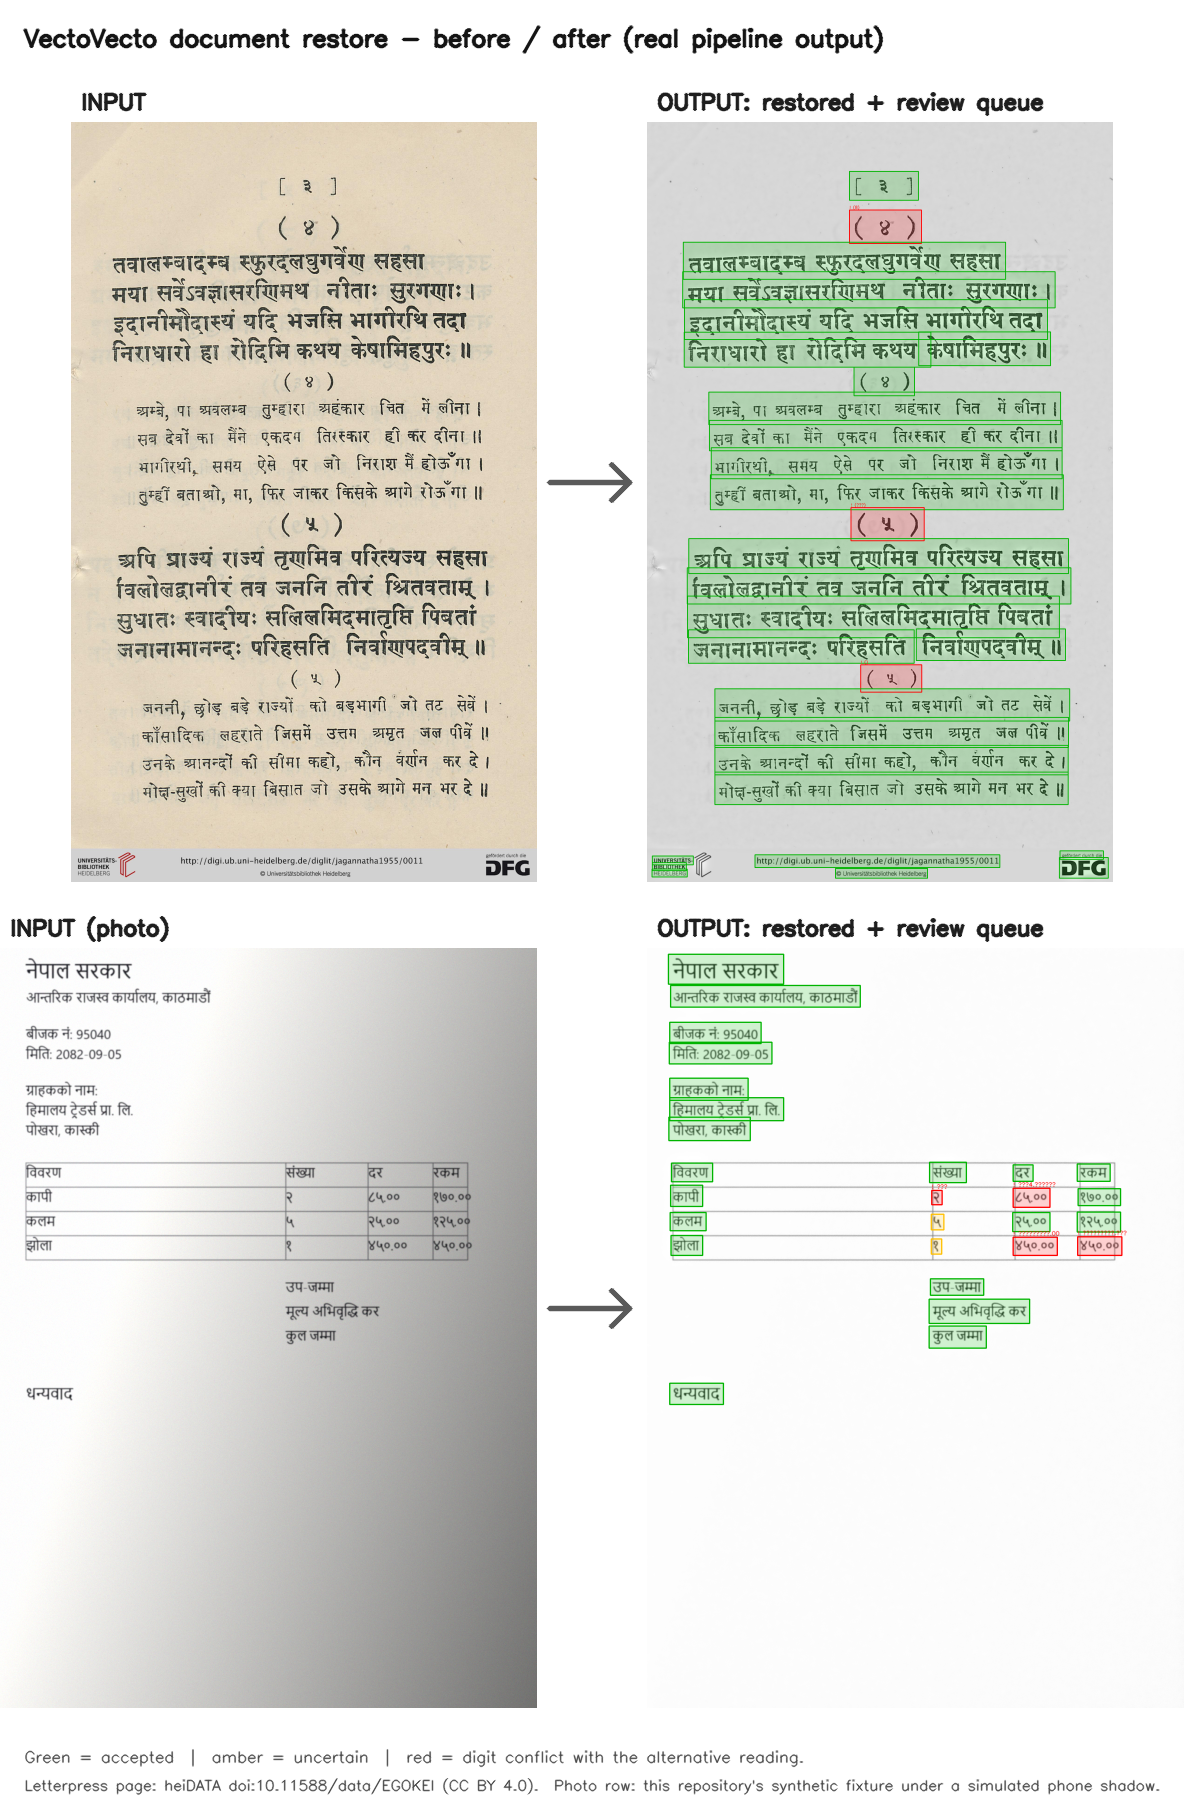
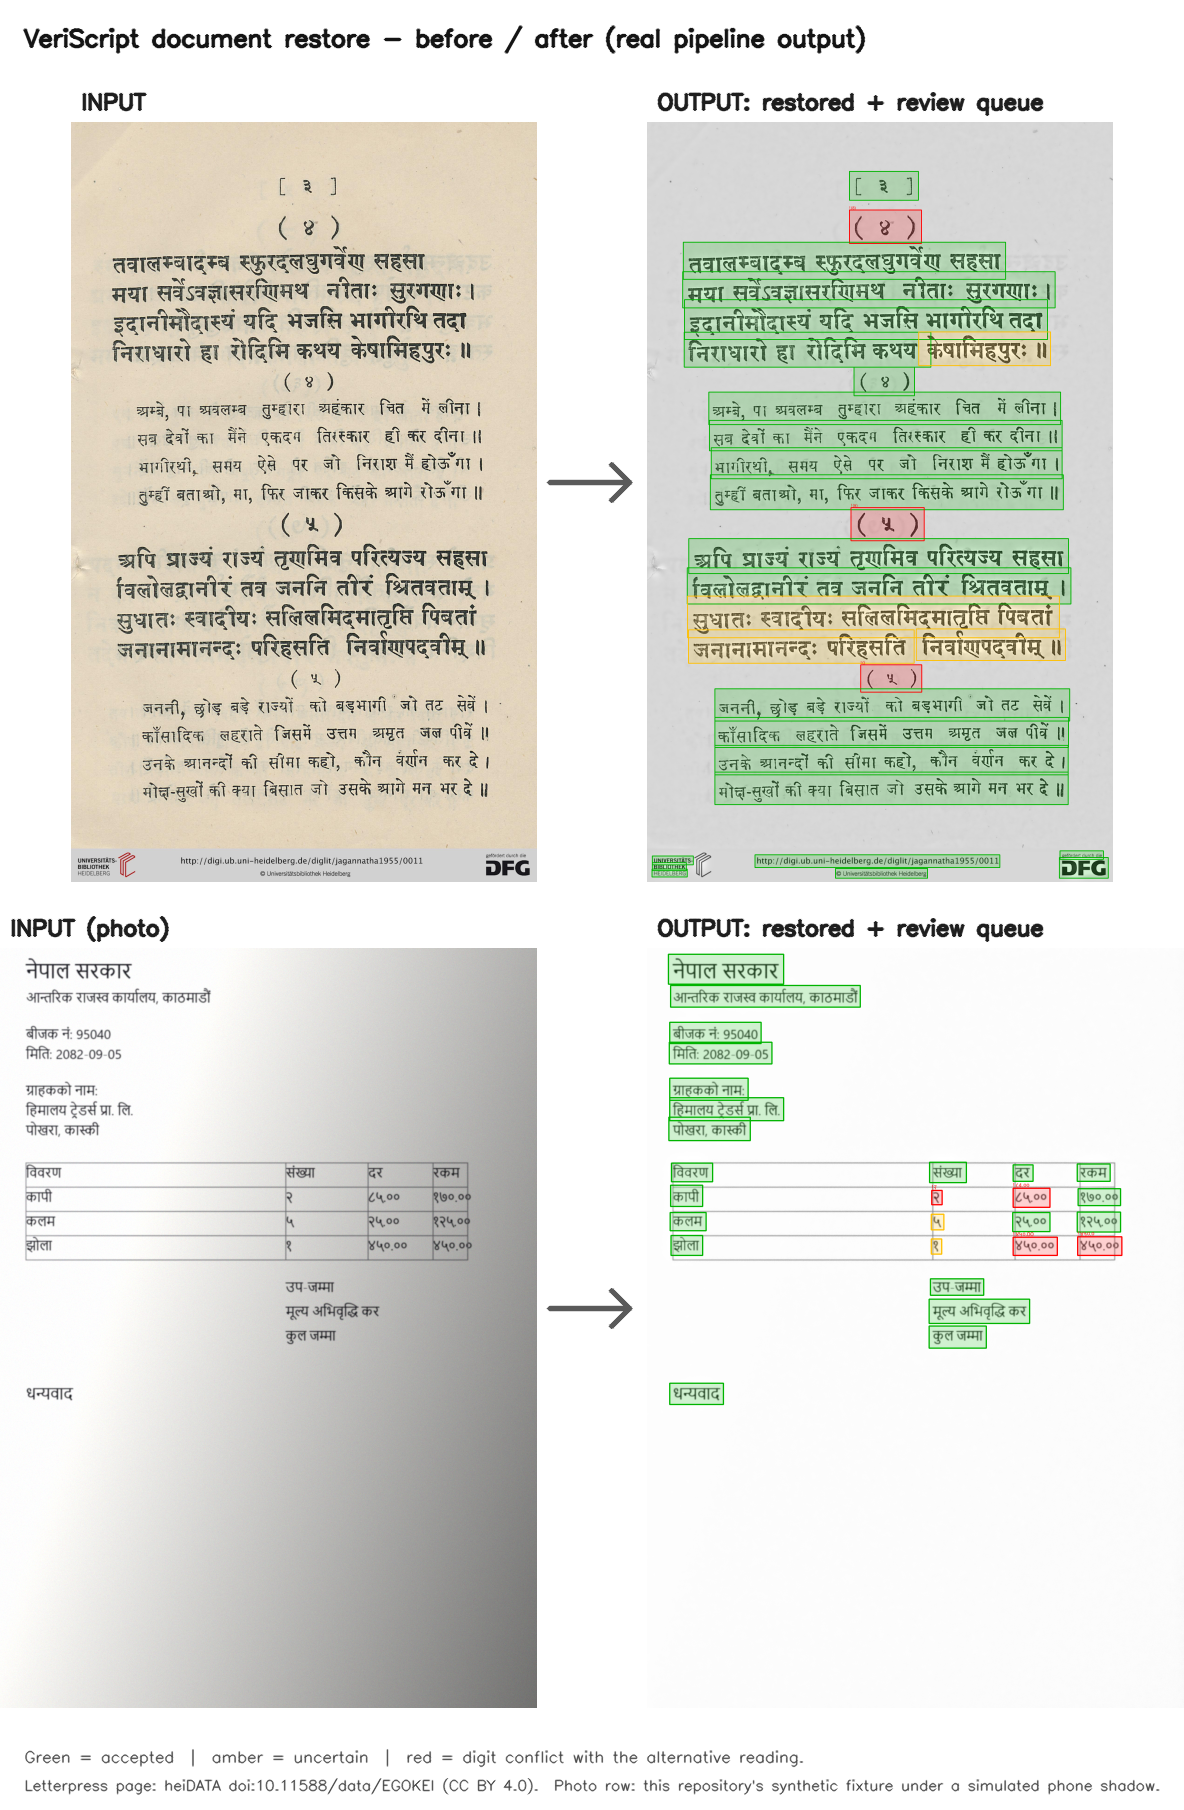
brand: VeriScript - rename from VectoVecto (brand surfaces + legacy env aliases)
- branding.py: VERISCRIPT_* env vars with VECTOVECTO_* fallback (logging, lexicon, deva checkpoint, web config)
- README/docs/studio UI/package metadata/Docker/CI/packaging spec renamed; demo before/after image regenerated with the new name
- kept for compatibility: vectovecto.* logger, vvweb package, Kaggle dataset slugs, legacy vectovecto console script
- docs/PLAN.md Appendix AD records the naming decision and namespace checks; 338 tests pass

Changed region(s): [[0.0312, 0.0, 0.75, 0.0309], [0.5625, 0.3094, 0.9062, 0.3713], [0.75, 0.1856, 0.9062, 0.2166]]

diff --git a/webapp/frontend/src/routes/Landing.tsx b/webapp/frontend/src/routes/Landing.tsx
@@ -108,7 +108,7 @@ export function Landing() {
             <span class="eyebrow">Offline document restoration — Devanagari first</span>
             <h1 class="display hero__title">It will not invent the numbers on your bill.</h1>
             <p class="lede">
-              VectoVecto restores photos and scans into cleaned pages and searchable PDFs — and
+              VeriScript restores photos and scans into cleaned pages and searchable PDFs — and
               puts every uncertain digit in a measured review queue instead of guessing.
             </p>
             <a class="textlink" href="#examples">
@@ -298,7 +298,7 @@ export function Landing() {
             <h2 class="h2">This page is a demo. The product runs on your machine.</h2>
             <p class="lede">
               The studio processes your page on this server and deletes it after the retention
-              window. The real guarantee — and the reason VectoVecto exists — is that the pipeline
+              window. The real guarantee — and the reason VeriScript exists — is that the pipeline
               runs offline: no cloud calls, no telemetry, no account. Install it and it stays yours.
             </p>
           </div>

diff --git a/webapp/frontend/src/components/Footer.tsx b/webapp/frontend/src/components/Footer.tsx
@@ -3,7 +3,7 @@ export function Footer() {
     <footer class="footer">
       <div class="container footer__grid">
         <div class="footer__col">
-          <span class="wordmark">VectoVecto</span>
+          <span class="wordmark">VeriScript</span>
           <p class="footer__note">
             Offline document restoration. Devanagari first, English too. Photo or scan in — cleaned
             page, searchable PDF, overlay, transcript and OCR JSON out, with every uncertain number
@@ -31,11 +31,11 @@ export function Footer() {
           <span class="eyebrow">Project</span>
           <a
             class="footer__link"
-            href="https://github.com/DontHash/VectoVecto"
+            href="https://github.com/DontHash/VeriScript"
             target="_blank"
             rel="noreferrer noopener"
           >
-            GitHub — DontHash/VectoVecto
+            GitHub — DontHash/VeriScript
           </a>
           <span class="eyebrow">Docs</span>
           <span class="footer__link">docs/EVALUATION.md · docs/DEPLOY.md</span>

diff --git a/webapp/frontend/index.html b/webapp/frontend/index.html
@@ -5,7 +5,7 @@
     <meta name="viewport" content="width=device-width, initial-scale=1.0" />
     <meta
       name="description"
-      content="VectoVecto restores photos and scans into cleaned pages and searchable PDFs — and puts every uncertain digit into a review queue instead of guessing. Devanagari first, offline by design."
+      content="VeriScript restores photos and scans into cleaned pages and searchable PDFs — and puts every uncertain digit into a review queue instead of guessing. Devanagari first, offline by design."
     />
     <link rel="icon" type="image/svg+xml" href="/favicon.svg" />
     <link
@@ -22,7 +22,7 @@
       type="font/woff2"
       crossorigin
     />
-    <title>VectoVecto — offline document restoration</title>
+    <title>VeriScript — offline document restoration</title>
   </head>
   <body>
     <div id="root"></div>

diff --git a/webapp/frontend/src/components/TopBar.tsx b/webapp/frontend/src/components/TopBar.tsx
@@ -7,8 +7,8 @@ export function TopBar() {
   return (
     <header class="topbar">
       <div class="container topbar__inner">
-        <A href="/" class="wordmark" aria-label="VectoVecto home">
-          Vecto<span>Vecto</span>
+        <A href="/" class="wordmark" aria-label="VeriScript home">
+          Veri<span>Script</span>
         </A>
 
         <nav class="topbar__nav" aria-label="Primary">
@@ -29,7 +29,7 @@ export function TopBar() {
         <div class="topbar__actions">
           <a
             class="nav-link topbar__gh"
-            href="https://github.com/DontHash/VectoVecto"
+            href="https://github.com/DontHash/VeriScript"
             rel="noreferrer noopener"
             target="_blank"
           >

diff --git a/webapp/vvweb/config.py b/webapp/vvweb/config.py
@@ -1,14 +1,19 @@
-"""Web app configuration (env-driven)."""
+"""Web app configuration (env-driven).
+
+Reads `VERISCRIPT_*` first; the legacy `VECTOVECTO_*` names still work as a
+fallback (see `branding.py`).
+"""
 from __future__ import annotations
 
-import os
 from dataclasses import dataclass, field
+
+import branding
 
 
 def _env_int(name: str, default: int) -> int:
     try:
-        return int(os.environ.get(name, default))
-    except ValueError:
+        return int(branding.env(name, default))
+    except (TypeError, ValueError):
         return default
 
 
@@ -16,38 +21,38 @@ def _env_int(name: str, default: int) -> int:
 class Settings:
     """All runtime knobs in one place. Env-first; safe defaults."""
 
-    host: str = field(default_factory=lambda: os.environ.get("VECTOVECTO_WEB_HOST", "127.0.0.1"))
-    port: int = field(default_factory=lambda: _env_int("VECTOVECTO_WEB_PORT", 8000))
+    host: str = field(default_factory=lambda: branding.env("WEB_HOST", "127.0.0.1"))
+    port: int = field(default_factory=lambda: _env_int("WEB_PORT", 8000))
 
     # Upload limits
-    max_upload_mb: int = field(default_factory=lambda: _env_int("VECTOVECTO_WEB_MAX_UPLOAD_MB", 12))
-    max_image_megapixels: int = field(default_factory=lambda: _env_int("VECTOVECTO_WEB_MAX_MP", 30))
+    max_upload_mb: int = field(default_factory=lambda: _env_int("WEB_MAX_UPLOAD_MB", 12))
+    max_image_megapixels: int = field(default_factory=lambda: _env_int("WEB_MAX_MP", 30))
 
     # Processing
-    process_timeout_s: int = field(default_factory=lambda: _env_int("VECTOVECTO_WEB_TIMEOUT_S", 180))
-    max_concurrent: int = field(default_factory=lambda: _env_int("VECTOVECTO_WEB_CONCURRENCY", 1))
-    queue_wait_s: int = field(default_factory=lambda: _env_int("VECTOVECTO_WEB_QUEUE_WAIT_S", 25))
+    process_timeout_s: int = field(default_factory=lambda: _env_int("WEB_TIMEOUT_S", 180))
+    max_concurrent: int = field(default_factory=lambda: _env_int("WEB_CONCURRENCY", 1))
+    queue_wait_s: int = field(default_factory=lambda: _env_int("WEB_QUEUE_WAIT_S", 25))
 
     # OCR language warmed at startup so the first visitor does not pay the
     # model init / one-time Devanagari download (the UI defaults to Nepali).
-    warm_lang: str = field(default_factory=lambda: os.environ.get("VECTOVECTO_WEB_WARM_LANG", "ne"))
+    warm_lang: str = field(default_factory=lambda: branding.env("WEB_WARM_LANG", "ne"))
 
     # Trusted reverse proxy for real client IPs (rate limiting). Uvicorn
     # `proxy_headers` + `forwarded_allow_ips`; empty = off. See docs/DEPLOY.md.
-    forwarded_allow_ips: str = field(default_factory=lambda: os.environ.get(
-        "VECTOVECTO_WEB_FORWARDED_ALLOW_IPS", "").strip())
+    forwarded_allow_ips: str = field(default_factory=lambda: str(
+        branding.env("WEB_FORWARDED_ALLOW_IPS", "")).strip())
 
     # Retention
-    run_ttl_minutes: int = field(default_factory=lambda: _env_int("VECTOVECTO_WEB_TTL_MINUTES", 60))
-    prune_interval_s: int = field(default_factory=lambda: _env_int("VECTOVECTO_WEB_PRUNE_S", 600))
+    run_ttl_minutes: int = field(default_factory=lambda: _env_int("WEB_TTL_MINUTES", 60))
+    prune_interval_s: int = field(default_factory=lambda: _env_int("WEB_PRUNE_S", 600))
 
     # Rate limiting (per client IP, sliding window)
-    rate_window_s: int = field(default_factory=lambda: _env_int("VECTOVECTO_WEB_RATE_WINDOW_S", 120))
-    rate_max_in_window: int = field(default_factory=lambda: _env_int("VECTOVECTO_WEB_RATE_MAX", 6))
+    rate_window_s: int = field(default_factory=lambda: _env_int("WEB_RATE_WINDOW_S", 120))
+    rate_max_in_window: int = field(default_factory=lambda: _env_int("WEB_RATE_MAX", 6))
 
     # Optional basic auth for the API (set both to enable)
-    auth_user: str | None = field(default_factory=lambda: os.environ.get("VECTOVECTO_WEB_USER") or None)
-    auth_password: str | None = field(default_factory=lambda: os.environ.get("VECTOVECTO_WEB_PASSWORD") or None)
+    auth_user: str | None = field(default_factory=lambda: branding.env("WEB_USER") or None)
+    auth_password: str | None = field(default_factory=lambda: branding.env("WEB_PASSWORD") or None)
 
     @property
     def auth_enabled(self) -> bool:

diff --git a/webapp/vvweb/security.py b/webapp/vvweb/security.py
@@ -136,7 +136,8 @@ def client_key(request: Request) -> str:
 
     Behind a reverse proxy this is the proxy IP unless the deployment enables
     proxy headers (uvicorn `proxy_headers=True` + `forwarded_allow_ips`, wired
-    by `VECTOVECTO_WEB_FORWARDED_ALLOW_IPS`); see docs/DEPLOY.md.
+    by `VERISCRIPT_WEB_FORWARDED_ALLOW_IPS`; legacy `VECTOVECTO_WEB_FORWARDED_ALLOW_IPS` also
+    accepted); see docs/DEPLOY.md.
     """
     return request.client.host if request.client else "unknown"
 
@@ -153,7 +154,7 @@ def require_auth(request: Request) -> None:
     if not header.lower().startswith("basic "):
         raise HTTPException(status_code=status.HTTP_401_UNAUTHORIZED,
                             detail="Authentication required",
-                            headers={"WWW-Authenticate": 'Basic realm="VectoVecto"'})
+                            headers={"WWW-Authenticate": 'Basic realm="VeriScript"'})
     import base64
     try:
         decoded = base64.b64decode(header.split(" ", 1)[1]).decode("utf-8")
@@ -161,13 +162,13 @@ def require_auth(request: Request) -> None:
     except Exception:
         raise HTTPException(status_code=status.HTTP_401_UNAUTHORIZED,
                             detail="Bad credentials",
-                            headers={"WWW-Authenticate": 'Basic realm="VectoVecto"'})
+                            headers={"WWW-Authenticate": 'Basic realm="VeriScript"'})
     ok = (secrets.compare_digest(user, settings.auth_user or "")
           and secrets.compare_digest(password, settings.auth_password or ""))
     if not ok:
         raise HTTPException(status_code=status.HTTP_401_UNAUTHORIZED,
                             detail="Bad credentials",
-                            headers={"WWW-Authenticate": 'Basic realm="VectoVecto"'})
+                            headers={"WWW-Authenticate": 'Basic realm="VeriScript"'})
 
 
 # --------------------------------------------------------------------------

diff --git a/logging_setup.py b/logging_setup.py
@@ -1,19 +1,21 @@
 """
 logging_setup.py — one logging configuration for CLI, studio and library code.
 
-Product modules log under the `vectovecto` logger (`vectovecto.cli`,
-`vectovecto.web`, `vectovecto.document_export`, ...). `configure_logging()` is
-idempotent, is called by the entry points, and reads `VECTOVECTO_LOG_LEVEL`
-(default INFO). Server-side errors then reach container logs instead of only
-the HTTP response; the CLI keeps its user-facing prints.
+Product modules log under the `vectovecto.*` logger (internal name, kept from
+the former brand; `vectovecto.cli`, `vectovecto.web`, ...).
+`configure_logging()` is idempotent, is called by the entry points, and reads
+`VERISCRIPT_LOG_LEVEL` (legacy `VECTOVECTO_LOG_LEVEL` still accepted; default
+INFO). Server-side errors then reach container logs instead of only the HTTP
+response; the CLI keeps its user-facing prints.
 
 No heavy imports; safe for the shipped path.
 """
 from __future__ import annotations
 
 import logging
-import os
 import sys
+
+import branding
 
 ROOT_NAME = "vectovecto"
 DEFAULT_LEVEL = "INFO"
@@ -30,7 +32,7 @@ def configure_logging(level: str | None = None) -> logging.Logger:
         handler.setFormatter(logging.Formatter(_FORMAT, "%H:%M:%S"))
         logger.addHandler(handler)
         _CONFIGURED = True
-    name = (level or os.environ.get("VECTOVECTO_LOG_LEVEL", DEFAULT_LEVEL)).upper()
+    name = (level or branding.env("LOG_LEVEL", DEFAULT_LEVEL)).upper()
     logger.setLevel(getattr(logging, name, logging.INFO))
     return logger
 

diff --git a/tests/test_logging_setup.py b/tests/test_logging_setup.py
@@ -1,9 +1,10 @@
 """
 test_logging_setup.py — one logging configuration for CLI/web/library (W5).
 
-Server-side failures must be logged (`vectovecto.web` in the web API is
-covered by `tests/test_webapp_api.py`); `configure_logging()` is idempotent
-and reads `VECTOVECTO_LOG_LEVEL`.
+Server-side failures must be logged (`vectovecto.web` — internal logger name,
+kept from the former brand — in the web API is covered by
+`tests/test_webapp_api.py`); `configure_logging()` is idempotent and reads
+`VERISCRIPT_LOG_LEVEL` with the legacy `VECTOVECTO_LOG_LEVEL` as fallback.
 """
 from __future__ import annotations
 
@@ -23,10 +24,16 @@ def test_get_logger_prefixes_root():
 
 
 def test_configure_logging_level_from_env(monkeypatch):
-    monkeypatch.setenv("VECTOVECTO_LOG_LEVEL", "debug")
+    monkeypatch.setenv("VERISCRIPT_LOG_LEVEL", "debug")
     assert configure_logging().level == logging.DEBUG
-    monkeypatch.setenv("VECTOVECTO_LOG_LEVEL", "not-a-level")
+    monkeypatch.setenv("VERISCRIPT_LOG_LEVEL", "not-a-level")
     assert configure_logging().level == logging.INFO
+
+
+def test_configure_logging_legacy_env_alias(monkeypatch):
+    monkeypatch.delenv("VERISCRIPT_LOG_LEVEL", raising=False)
+    monkeypatch.setenv("VECTOVECTO_LOG_LEVEL", "warning")
+    assert configure_logging().level == logging.WARNING
 
 
 def test_configure_logging_is_idempotent():

diff --git a/deva_reader.py b/deva_reader.py
@@ -8,8 +8,9 @@ Devanagari line boxes while RapidOCR keeps doing detection; every line falls
 back to the backend reading when the model output is empty or implausible.
 
 The weights are deliberately **not** part of this repository. Deployments
-provide them via `VECTOVECTO_DEVA_CKPT` or `weights/deva_crnn_h48w512.pt`
-(both git-ignored); without them the reader is simply inactive.
+provide them via `VERISCRIPT_DEVA_CKPT` (legacy `VECTOVECTO_DEVA_CKPT` still
+accepted) or `weights/deva_crnn_h48w512.pt` (both git-ignored); without them
+the reader is simply inactive.
 """
 from __future__ import annotations
 
@@ -20,8 +21,10 @@ from typing import Dict, List, Optional
 import cv2
 import numpy as np
 
+import branding
+
 BASE_DIR = os.path.dirname(os.path.abspath(__file__))
-ENV_VAR = "VECTOVECTO_DEVA_CKPT"
+ENV_VAR = "VERISCRIPT_DEVA_CKPT"
 DEFAULT_CKPT = os.path.join(BASE_DIR, "weights", "deva_crnn_h48w512.pt")
 MIN_CHARS = 1
 MAX_CHARS = 64
@@ -29,7 +32,7 @@ MAX_CHARS = 64
 
 def resolve_ckpt(explicit: Optional[str] = None) -> Optional[str]:
     """First existing checkpoint: explicit path, env var, repo default."""
-    for cand in (explicit, os.environ.get(ENV_VAR), DEFAULT_CKPT):
+    for cand in (explicit, branding.env("DEVA_CKPT"), DEFAULT_CKPT):
         if cand and os.path.exists(cand):
             return cand
     return None

diff --git a/lexicon.py b/lexicon.py
@@ -5,7 +5,8 @@ The word list is built by `scripts/fetch_nepali_lexicon.py` from two
 license-clean sources (Tesseract `nep/nep.wordlist`, Apache-2.0;
 `nepali-brihat-sabdakosh-json`, MIT) and is **not distributed in this
 repository** (`data/` is gitignored). Absence is not an error: the flag is
-simply not emitted. `VECTOVECTO_LEXICON` overrides the path.
+simply not emitted. `VERISCRIPT_LEXICON` (legacy `VECTOVECTO_LEXICON` still
+accepted) overrides the path.
 
 No heavy imports; safe for the shipped path.
 """
@@ -16,8 +17,10 @@ import re
 import unicodedata
 from typing import Collection, Dict, List, Optional
 
+import branding
+
 BASE_DIR = os.path.dirname(os.path.abspath(__file__))
-ENV_VAR = "VECTOVECTO_LEXICON"
+ENV_VAR = "VERISCRIPT_LEXICON"
 DEFAULT_LEXICON = os.path.join(BASE_DIR, "data", "lexicon",
                                "nepali_lexicon_v1.txt")
 MIN_WORD_LEN = 2
@@ -61,7 +64,7 @@ def unknown_words(text: str, lexicon: Optional[Collection[str]]) -> List[str]:
 
 
 def resolve_path(path: Optional[str] = None) -> str:
-    return os.path.abspath(path or os.environ.get(ENV_VAR) or DEFAULT_LEXICON)
+    return os.path.abspath(path or branding.env("LEXICON") or DEFAULT_LEXICON)
 
 
 def load_lexicon(path: Optional[str] = None) -> Optional[Dict]:

diff --git a/scripts/fetch_nepali_lexicon.py b/scripts/fetch_nepali_lexicon.py
@@ -41,7 +41,7 @@ WORDLIST_URL = ("https://raw.githubusercontent.com/tesseract-ocr/langdata/"
                 "master/nep/nep.wordlist")
 SABDAKOSH_URL = ("https://raw.githubusercontent.com/bikashpadhikari/"
                  "nepali-brihat-sabdakosh-json/main/sabdakosh.json.gz")
-UA = ("Mozilla/5.0 (Windows NT 10.0; Win64; x64) VectoVecto-Research/1.0 "
+UA = ("Mozilla/5.0 (Windows NT 10.0; Win64; x64) VeriScript-Research/1.0 "
       "(offline lexicon build; contact: local)")
 LEXICON_NAME = "nepali_lexicon_v1.txt"
 MANIFEST_NAME = "nepali_lexicon_v1.manifest.json"
@@ -52,7 +52,7 @@ SOURCES = [
      "url": SABDAKOSH_URL, "license": "MIT"},
 ]
 HEADER = (
-    "# VectoVecto Nepali lexicon v1\n"
+    "# VeriScript Nepali lexicon v1\n"
     "# sources: tesseract-ocr/langdata nep/nep.wordlist (Apache-2.0);\n"
     "#          nepali-brihat-sabdakosh-json (MIT)\n"
     "# generated by scripts/fetch_nepali_lexicon.py - do not edit by hand;\n"

diff --git a/webapp/server.py b/webapp/server.py
@@ -1,10 +1,11 @@
 """Entry point.
 
     python webapp/server.py            # http://127.0.0.1:8000
-    VECTOVECTO_WEB_PORT=9000 python webapp/server.py
+    VERISCRIPT_WEB_PORT=9000 python webapp/server.py
 
-Env: see webapp/app/config.py. Optional auth:
-    VECTOVECTO_WEB_USER / VECTOVECTO_WEB_PASSWORD
+Env: see webapp/vvweb/config.py (`VERISCRIPT_*`; legacy `VECTOVECTO_*` still
+accepted). Optional auth:
+    VERISCRIPT_WEB_USER / VERISCRIPT_WEB_PASSWORD
 """
 from __future__ import annotations
 
@@ -28,7 +29,7 @@ app = create_app()
 def _uvicorn_extra(allow: str) -> dict:
     """Proxy-header kwargs for uvicorn, or {} when disabled.
 
-    Opt-in via `VECTOVECTO_WEB_FORWARDED_ALLOW_IPS` = the proxy address(es)
+    Opt-in via `VERISCRIPT_WEB_FORWARDED_ALLOW_IPS` = the proxy address(es)
     (`127.0.0.1`, a subnet, or `*`). Left unset, forwarded headers are
     ignored and the proxy IP is rate-limited (safe but coarse).
     """
